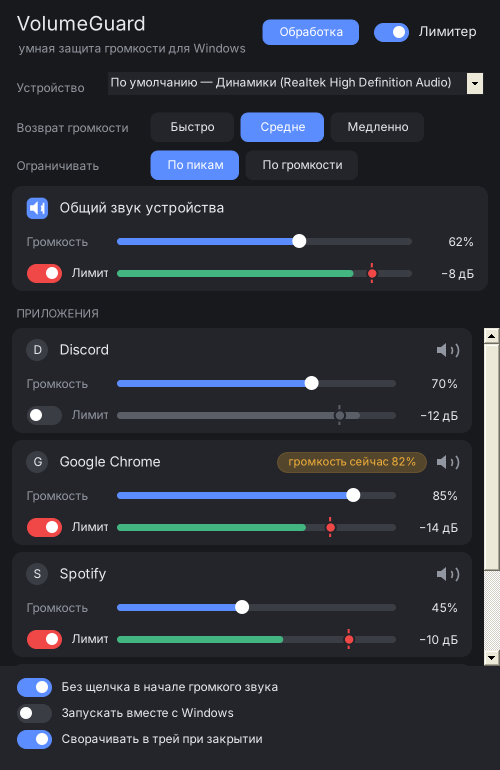
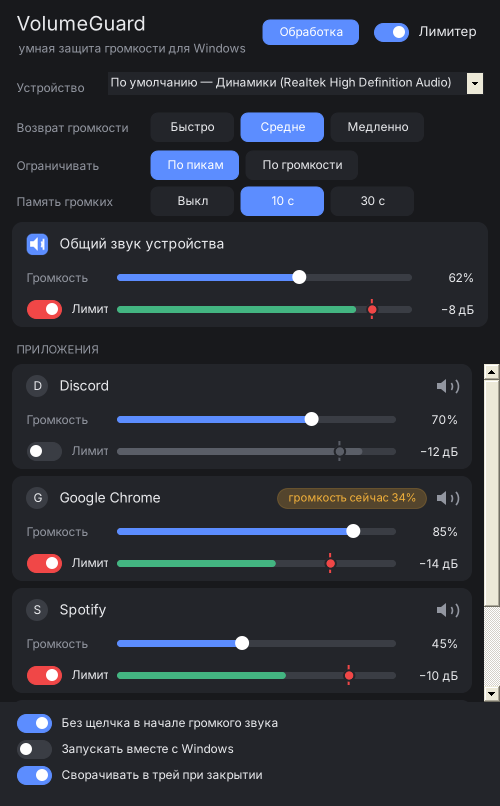
VolumeGuard 2.3.0: memory of loud sounds [release]
A volume-knob limiter cannot catch the onset of a sound louder than
anything before it; the faster the volume returned, the bigger the next
overshoot (why fast/medium click more than slow). New hold envelope
(decay 10 or 30 s, held in silence): the peak used for the target is
never below hold - 3 dB, so a repeat of a recent loud sound overshoots
by at most ~3-6 dB instead of ~10 dB. Selector in the main window.

Claude-Session: https://claude.ai/code/session_014woEXJQBV3DgrX3vU1tX8E

diff --git a/src/Engine.cs b/src/Engine.cs
@@ -42,6 +42,7 @@ namespace VolumeGuard
         public float Gain = 1f;         // volume actually applied (<= UserVol)
         public float Env;               // peak envelope of the input signal
         public float Ms;                // mean square of the level over ~0.4 s (loudness mode)
+        public float Hold;              // memory of loud peaks (decays over 10 / 30 s)
         public float OutLevel;          // estimated output peak, linear
         public float DisplayPeak;       // highest OutLevel since the window last drew it
         public bool Limiting;
@@ -60,6 +61,7 @@ namespace VolumeGuard
         public float R = 1f;            // our reduction factor, linear (1 = none)
         public float Env;
         public float Ms;
+        public float Hold;
         public float OutLevel;
         public float DisplayPeak;
         public bool Limiting;
@@ -87,6 +89,9 @@ namespace VolumeGuard
         public int ReturnSpeed = 1;
         /// Limit by the average loudness over ~0.4 s instead of every peak (short peaks may go up to 6 dB over).
         public bool LoudnessMode;
+        /// Memory of loud sounds: 0 off, 1 ~10 s, 2 ~30 s. While it lasts the volume does not come back so far
+        /// that the same loud sound would again be more than 3 dB over the limit.
+        public int Memory = 1;
         public bool TrayHintShown;
         // Whether peak meters report the level after the volume we set (see README).
         public bool SessionMeterPost = false;
@@ -155,6 +160,7 @@ namespace VolumeGuard
                             else if (p[1] == "anticlick") s.AntiClick = p[2] == "1";
                             else if (p[1] == "return") s.ReturnSpeed = Math.Max(0, Math.Min(2, (int)PF(p[2], 1f)));
                             else if (p[1] == "loudness") s.LoudnessMode = p[2] == "1";
+                            else if (p[1] == "memory") s.Memory = Math.Max(0, Math.Min(2, (int)PF(p[2], 1f)));
                             else if (p[1] == "trayhint") s.TrayHintShown = p[2] == "1";
                             else if (p[1] == "sessionMeterAfterVolume") s.SessionMeterPost = p[2] == "1";
                             else if (p[1] == "masterMeterPost") s.MasterMeterPost = p[2] == "1";
@@ -210,6 +216,7 @@ namespace VolumeGuard
                     sb.AppendLine("opt|anticlick|" + B(AntiClick));
                     sb.AppendLine("opt|return|" + ReturnSpeed.ToString(IC));
                     sb.AppendLine("opt|loudness|" + B(LoudnessMode));
+                    sb.AppendLine("opt|memory|" + Memory.ToString(IC));
                     sb.AppendLine("opt|trayhint|" + B(TrayHintShown));
                     sb.AppendLine("opt|sessionMeterAfterVolume|" + B(SessionMeterPost));
                     sb.AppendLine("opt|masterMeterPost|" + B(MasterMeterPost));
@@ -249,6 +256,12 @@ namespace VolumeGuard
         /// …and single short peaks may go this far over the limit (a shot, a click) without pulling the volume down.
         public const float PeakAllowanceDb = 6f;
 
+        /// Memory of loud sounds: decay time (s) for the settings 0 (off), 1, 2; and how far over the limit
+        /// a remembered loud sound may come back.
+        static readonly double[] MemorySecs = { 0, 10, 30 };
+        public static double MemorySec(int memory) { return MemorySecs[Math.Max(0, Math.Min(2, memory))]; }
+        public const float MemoryAllowanceDb = 3f;
+
         /// The peak ceiling the anti-click and the limiter use for a limit, in the current mode.
         public static float PeakLimitDb(float limitDb, bool loudness) { return loudness ? limitDb + PeakAllowanceDb : limitDb; }
 
@@ -258,13 +271,19 @@ namespace VolumeGuard
         /// so a loud sound that starts after a pause does not hit at full volume.
         /// Loudness mode (loud = true): ms is the mean square of the level (msCoef = 1 − e^(−dt / LoudnessSec));
         /// the volume follows the average loudness, peaks only have to stay under limit + PeakAllowanceDb.
-        public static void Step(ref float gain, ref float env, ref float ms, float inPeak, float user, bool on, float limitDb,
-                                float floor, float decay, float rel, float msCoef, bool loud)
+        /// Memory (holdDecay < 1): hold remembers loud peaks for MemorySec; the peak level used below is never
+        /// lower than that memory − MemoryAllowanceDb, so the volume does not come all the way back between
+        /// shots and the next one is at most ~3 dB over (a volume knob cannot catch a sound before it starts).
+        public static void Step(ref float gain, ref float env, ref float ms, ref float hold, float inPeak, float user, bool on,
+                                float limitDb, float floor, float decay, float rel, float msCoef, bool loud, float holdDecay)
         {
             bool sound = inPeak >= Gate;
             env = sound ? Math.Max(inPeak, env * decay) : Math.Max(inPeak, env);
             if (ms <= 0f) ms = env * env;                    // start from what we know
             if (sound) ms += (inPeak * inPeak - ms) * msCoef; // silence: hold, like the envelope
+            if (holdDecay < 1f) hold = sound ? Math.Max(inPeak, hold * holdDecay) : Math.Max(inPeak, hold);
+            else hold = 0f;
+            float peak = Math.Max(env, hold * Db.ToLin(-MemoryAllowanceDb));
             float target = user;
             if (on)
             {
@@ -272,9 +291,9 @@ namespace VolumeGuard
                 {
                     float level = (float)Math.Sqrt(ms);
                     if (level > 1e-4f) target = Math.Min(target, Db.ToLin(limitDb) / level);
-                    if (env > 1e-4f) target = Math.Min(target, Db.ToLin(limitDb + PeakAllowanceDb) / env);
+                    if (peak > 1e-4f) target = Math.Min(target, Db.ToLin(limitDb + PeakAllowanceDb) / peak);
                 }
-                else if (env > 1e-4f) target = Math.Min(target, Db.ToLin(limitDb) / env);
+                else if (peak > 1e-4f) target = Math.Min(target, Db.ToLin(limitDb) / peak);
             }
             if (target < floor) target = floor;
             if (target < gain) gain = target;
@@ -347,7 +366,7 @@ namespace VolumeGuard
         int postMismatch;
         // anti-click: how far the device volume is pulled down right now (dB, ≤ 0), until when it is held,
         // and the strongest pull-down the apps asked for in this step
-        float duckDb, duckRequest, msCoef;
+        float duckDb, duckRequest, msCoef, holdDecay = 1f;
         double clock, duckHoldUntil, lastDuckLog = -10;
         public bool HardwareVolume { get; private set; }
         float userDb, minDb = -65f, maxDb = 0f, lastSetDb = float.NaN, lastScalar = -1f;
@@ -591,7 +610,7 @@ namespace VolumeGuard
             {
                 if (!a.Present)
                 {
-                    a.Adopted = false; a.Active = false; a.OutLevel = 0f; a.Env = 0f; a.Ms = 0f;
+                    a.Adopted = false; a.Active = false; a.OutLevel = 0f; a.Env = 0f; a.Ms = 0f; a.Hold = 0f;
                     continue;
                 }
                 a.Active = a.Sessions.Any(x => x.Active);
@@ -714,6 +733,8 @@ namespace VolumeGuard
             float decay = (float)Math.Exp(-dt / Limiter.EnvSec(s.ReturnSpeed));
             float rel = 1f - (float)Math.Exp(-dt / Limiter.ReturnSec(s.ReturnSpeed));
             msCoef = 1f - (float)Math.Exp(-dt / Limiter.LoudnessSec);
+            double memSec = Limiter.MemorySec(s.Memory);
+            holdDecay = memSec > 0 ? (float)Math.Exp(-dt / memSec) : 1f;
             // apps first: they tell the device step below whether a loud sound slipped past their volume
             duckRequest = 0f;
             foreach (var a in s.Apps.Values)
@@ -735,6 +756,7 @@ namespace VolumeGuard
                 lastSetDb = userDb;
                 m.Env *= Db.ToLin(userDb - oldDb);
                 m.Ms *= Db.ToLin(2f * (userDb - oldDb));
+                m.Hold *= Db.ToLin(userDb - oldDb);
                 m.R = 1f; m.UiVersion++;
                 s.Dirty = true;
             }
@@ -763,8 +785,8 @@ namespace VolumeGuard
             float cur = userAmp * m.R * Db.ToLin(duckDb);
             float inLevel = s.MasterMeterPost ? (cur > 1e-4f ? p / cur : 0f) : p;
             float floor = Math.Min(1f, Db.ToLin(Math.Max(minDb - userDb, -60f)));
-            Limiter.Step(ref m.R, ref m.Env, ref m.Ms, inLevel * userAmp, 1f, s.Enabled && m.LimitOn, m.LimitDb, floor, decay, rel,
-                         msCoef, s.LoudnessMode);
+            Limiter.Step(ref m.R, ref m.Env, ref m.Ms, ref m.Hold, inLevel * userAmp, 1f, s.Enabled && m.LimitOn, m.LimitDb, floor,
+                         decay, rel, msCoef, s.LoudnessMode, holdDecay);
 
             float db = userDb + Db.FromLin(m.R) + duckDb;
             if (db < minDb) db = minDb;
@@ -807,7 +829,7 @@ namespace VolumeGuard
             // assumption yields that for a while, the meter is really before the volume: switch modes.
             if (s.SessionMeterPost && inPeak > 1.5f)
             {
-                if (++postMismatch > 20) { s.SessionMeterPost = false; s.Dirty = true; postMismatch = 0; a.Env = 0f; a.Ms = 0f; }
+                if (++postMismatch > 20) { s.SessionMeterPost = false; s.Dirty = true; postMismatch = 0; a.Env = 0f; a.Ms = 0f; a.Hold = 0f; }
             }
             else if (postMismatch > 0) postMismatch--;
             if (inPeak > 4f) inPeak = 4f;
@@ -825,8 +847,8 @@ namespace VolumeGuard
                     duckRequest = Math.Min(duckRequest, Math.Max(-30f, Db.FromLin(lim / outLvl)));
             }
 
-            Limiter.Step(ref a.Gain, ref a.Env, ref a.Ms, inPeak, a.UserVol, s.Enabled && a.LimitOn, a.LimitDb,
-                         Math.Min(a.UserVol, 0.02f), decay, rel, msCoef, s.LoudnessMode);
+            Limiter.Step(ref a.Gain, ref a.Env, ref a.Ms, ref a.Hold, inPeak, a.UserVol, s.Enabled && a.LimitOn, a.LimitDb,
+                         Math.Min(a.UserVol, 0.02f), decay, rel, msCoef, s.LoudnessMode, holdDecay);
 
             foreach (var w in a.Sessions)
             {
@@ -873,6 +895,7 @@ namespace VolumeGuard
                 userDb = epv.GetMasterVolumeLevel();
                 m.Env *= Db.ToLin(userDb - oldDb);
                 m.Ms *= Db.ToLin(2f * (userDb - oldDb));
+                m.Hold *= Db.ToLin(userDb - oldDb);
                 m.UserVol = v;
                 float db = userDb;
                 if (m.R < 0.999f)
@@ -926,6 +949,8 @@ namespace VolumeGuard
             t += dt;
             float decay = (float)Math.Exp(-dt / Limiter.EnvSec(s.ReturnSpeed)), rel = 1f - (float)Math.Exp(-dt / Limiter.ReturnSec(s.ReturnSpeed));
             float msCoef = 1f - (float)Math.Exp(-dt / Limiter.LoudnessSec);
+            double memSec = Limiter.MemorySec(s.Memory);
+            float holdDecay = memSec > 0 ? (float)Math.Exp(-dt / memSec) : 1f;
             float sum = 0f;
             int i = 0;
             foreach (var a in s.Apps.Values)
@@ -933,14 +958,14 @@ namespace VolumeGuard
                 i++;
                 float burst = (float)Math.Max(0, Math.Sin(t * (0.7 + i * 0.3) + i));
                 float inPeak = a.Active ? (0.15f + 0.85f * burst * burst) * (0.6f + 0.4f * (float)rnd.NextDouble()) : 0f;
-                Limiter.Step(ref a.Gain, ref a.Env, ref a.Ms, inPeak, a.UserVol, s.Enabled && a.LimitOn, a.LimitDb, 0.02f, decay, rel, msCoef, s.LoudnessMode);
+                Limiter.Step(ref a.Gain, ref a.Env, ref a.Ms, ref a.Hold, inPeak, a.UserVol, s.Enabled && a.LimitOn, a.LimitDb, 0.02f, decay, rel, msCoef, s.LoudnessMode, holdDecay);
                 a.OutLevel = a.Muted ? 0f : inPeak * a.Gain;
                 a.DisplayPeak = Math.Max(a.DisplayPeak, a.OutLevel);
                 a.Limiting = a.Gain < a.UserVol * 0.97f;
                 sum = Math.Max(sum, a.OutLevel);
             }
             var m = s.Master;
-            Limiter.Step(ref m.R, ref m.Env, ref m.Ms, sum * m.UserVol, 1f, s.Enabled && m.LimitOn, m.LimitDb, 0.01f, decay, rel, msCoef, s.LoudnessMode);
+            Limiter.Step(ref m.R, ref m.Env, ref m.Ms, ref m.Hold, sum * m.UserVol, 1f, s.Enabled && m.LimitOn, m.LimitDb, 0.01f, decay, rel, msCoef, s.LoudnessMode, holdDecay);
             m.OutLevel = sum * m.UserVol * m.R;
             m.DisplayPeak = Math.Max(m.DisplayPeak, m.OutLevel);
             m.Limiting = m.R < 0.97f;

diff --git a/src/MainForm.cs b/src/MainForm.cs
@@ -56,7 +56,7 @@ namespace VolumeGuard
             ForeColor = Theme.Text;
             Font = Theme.Font(9f);
             StartPosition = FormStartPosition.CenterScreen;
-            ClientSize = new Size(Theme.D(500), Theme.D(770));
+            ClientSize = new Size(Theme.D(500), Theme.D(806));
             MinimumSize = new Size(Theme.D(420), Theme.D(460));
             iconOn = MakeIcon(true);
             iconOff = MakeIcon(false);
@@ -98,7 +98,7 @@ namespace VolumeGuard
             devRow.Controls.Add(devLbl);
 
             // how the limiter behaves: return speed and peak / loudness mode
-            var optRow = new Panel { Dock = DockStyle.Top, Height = Theme.D(76), BackColor = Theme.Bg };
+            var optRow = new Panel { Dock = DockStyle.Top, Height = Theme.D(112), BackColor = Theme.Bg };
             var tips = new ToolTip { AutoPopDelay = 15000, InitialDelay = 300 };
             AddSegments(optRow, tips, "Возврат громкости", 2,
                 new[] { "Быстро", "Средне", "Медленно" },
@@ -111,6 +111,12 @@ namespace VolumeGuard
                 new[] { "Ни один пик не громче лимита. Но после каждого выстрела или щелчка звук ненадолго проседает",
                         "Средняя громкость (за 0,4 с) не выше лимита, а короткие пики могут быть до 6 дБ громче. Звук не проседает после одиночных выстрелов, а громкая реклама и взрывы всё равно приглушаются" },
                 () => s.LoudnessMode ? 1 : 0, v => { s.LoudnessMode = v == 1; s.Dirty = true; });
+            AddSegments(optRow, tips, "Память громких", Theme.D(74) + 2,
+                new[] { "Выкл", "10 с", "30 с" },
+                new[] { "Громкость возвращается полностью — следующий внезапный громкий звук снова проскочит громче лимита",
+                        "Программа помнит громкие звуки ~10 с и не возвращает громкость настолько, чтобы такой же звук снова оказался громче лимита больше чем на 3 дБ. Меньше щелчков в перестрелке; тихие звуки в это время чуть тише",
+                        "То же, но помнит ~30 с" },
+                () => s.Memory, v => { s.Memory = v; s.Dirty = true; });
 
             // master card
             var masterWrap = new Panel { Dock = DockStyle.Top, Height = Theme.D(112), BackColor = Theme.Bg, Padding = new Padding(Theme.D(12), 0, Theme.D(12), 0) };

diff --git a/src/AssemblyInfo.cs b/src/AssemblyInfo.cs
@@ -7,6 +7,6 @@ using System.Reflection;
 [assembly: AssemblyDescription("Per-app volume limiter for Windows")]
 [assembly: AssemblyCompany("Nikita Bainov")]
 [assembly: AssemblyCopyright("Copyright (c) 2026 Nikita Bainov (qqkillua). MIT License.")]
-[assembly: AssemblyVersion("2.2.0.0")]
-[assembly: AssemblyFileVersion("2.2.0.0")]
-[assembly: AssemblyInformationalVersion("2.2.0")]
+[assembly: AssemblyVersion("2.3.0.0")]
+[assembly: AssemblyFileVersion("2.3.0.0")]
+[assembly: AssemblyInformationalVersion("2.3.0")]

diff --git a/docs/limiter.md b/docs/limiter.md
@@ -135,6 +135,32 @@ lin(−12) = 0,251
 Windows сообщает о звуке приложения только пиковый уровень, а не сам звук, поэтому средняя громкость
 считается по пикам — это приближение, а не измерение громкости по стандарту LUFS.
 
+## Память громких звуков
+
+Лимитер, который двигает ползунок громкости, не может поймать начало звука, который громче всего, что было
+до него: громкость убавляется, когда первые миллисекунды уже прозвучали. Чем быстрее громкость вернулась после
+прошлого выстрела, тем больше следующий проскакивает — поэтому на «Быстро» и «Средне» щелчки слышнее, чем на
+«Медленно».
+
+Память хранит самый громкий звук последних секунд (`H`, спадает в e раз за 10 или 30 с, в тишине не спадает)
+и не даёт громкости вернуться выше, чем нужно, чтобы такой же звук оказался громче лимита не больше чем на 3 дБ:
+
+```
+H = max(p, H · e^(−dt / 10 с))
+пик для расчёта = max(E, H − 3 дБ)
+```
+
+Модель: фон −30 дБ, выстрел −2 дБ каждые 3 с, лимит −12 дБ. Начало каждого выстрела выше лимита на:
+
+| Память | 1-й выстрел | следующие | фон между выстрелами |
+|---|---|---|---|
+| Выкл | 10 дБ | 10 дБ | 0 дБ |
+| 10 с | 10 дБ | 5,6 дБ | −3,9 дБ |
+| 30 с | 10 дБ | 3,9 дБ | −5,2 дБ |
+
+Плата — тихие звуки между громкими на несколько дБ тише. Самый первый выстрел после долгого затишья всё равно
+проскакивает: его гасит только «Без щелчка» (громкостью устройства) или «Обработка звука» с взглядом вперёд.
+
 ## Ограничения
 
 - **Первые ~10 мс.** Лимитер узнаёт о громком звуке, только когда Windows его уже смешала: этот пакет

diff --git a/README.md b/README.md
@@ -28,6 +28,8 @@
 - **Ограничивать по пикам или по громкости.** «По громкости» следит за средним уровнем за 0,4 с: громкая реклама
   и долгие взрывы приглушаются, а после одиночного выстрела или щелчка звук не проседает (короткие пики
   могут быть до 6 дБ громче лимита).
+- **Память громких звуков** (10 или 30 с): после выстрела громкость не возвращается настолько, чтобы следующий
+  такой же выстрел снова проскочил громче лимита, — меньше щелчков в перестрелке.
 - **Один переключатель** включает и выключает все ограничения; при выключении громкость сразу возвращается.
 - **Выбор устройства вывода** или «По умолчанию» — тогда программа следует за устройством Windows.
 - **Работает из трея**, запускается вместе с Windows, запоминает настройки каждой программы по имени.

diff --git a/.github/release-notes.md b/.github/release-notes.md
@@ -1,4 +1,7 @@
-**Что нового в 2.2.0**
+**Что нового в 2.3.0:** «Память громких звуков» — после выстрела громкость не возвращается настолько, чтобы
+следующий выстрел снова проскочил громче лимита. Меньше щелчков в перестрелке. Настройка в главном окне.
+
+**2.2.0**
 - **Скорость возврата громкости**: быстро (~0,6 с), средне (~1 с) или медленно (~2 с).
 - **Ограничивать по громкости**: лимит держит средний уровень, а короткие пики могут быть до 6 дБ выше —
   после одиночного выстрела звук не проседает, громкая реклама и долгие взрывы всё равно приглушаются.

diff --git a/CHANGELOG.md b/CHANGELOG.md
@@ -1,5 +1,12 @@
 # Изменения
 
+## 2.3.0
+
+- **Память громких звуков** (Выкл / 10 с / 30 с, по умолчанию 10 с). После громкого звука громкость не
+  возвращается настолько, чтобы такой же звук снова проскочил громче лимита больше чем на 3 дБ.
+  В перестрелке щелчок на каждом выстреле становится заметно слабее (по модели с +10 до +4–6 дБ), тихие звуки
+  между выстрелами при этом на 4–5 дБ тише. Подробно — в docs/limiter.md.
+
 ## 2.2.0
 
 - **Скорость возврата громкости**: быстро (~0,6 с), средне (~1 с), медленно (~2 с) — кнопки в главном окне.
